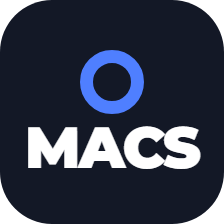
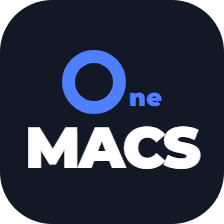
feat: 앱 v1.4 첫 실행 흐름(PC 먼저) 연계 — 메일 'PC 먼저' 안내, /console 첫 줄, 상품명·버전 기본값, 로고 O·ne MACS
Claude-Session: https://claude.ai/code/session_01HEtUMa1PLX434Fv7DYtGVQ

Changed region(s): [[0.25, 0.2188, 0.7188, 0.5312]]

diff --git a/api/lib/mailer.js b/api/lib/mailer.js
@@ -36,6 +36,7 @@ function purchaseEmailHtml(p) {
   </div>
 
   <div style="background:#1A2238;color:#fff;padding:26px;border-radius:16px;margin-bottom:22px;text-align:center;">
+    <div style="font-size:14px;opacity:.85;margin-bottom:10px;">먼저 PC에서 <a href="https://www.waat.community/console" style="color:#C9A961;font-weight:700;">waat.community/console</a> 을 여세요 — 앱은 화면이고, 일은 PC가 합니다(PC 준비 약 10분).</div>
     <div style="font-size:14px;opacity:.85;margin-bottom:12px;">보안 다운로드 링크</div>
     <a href="${esc(p.downloadLink)}" style="display:inline-block;background:#C9A961;color:#1A2238;padding:14px 34px;text-decoration:none;border-radius:10px;font-weight:800;font-size:17px;">원맥스 One MACS APK 다운로드</a>
     <div style="margin-top:14px;font-size:13px;opacity:.85;">링크 유효 ${p.expiryHours}시간 · 최대 ${p.maxDownloads}회</div>

diff --git a/api/lib/market.js b/api/lib/market.js
@@ -17,11 +17,11 @@ const crypto = require('crypto');
 
 const PRODUCT = {
     code: 'console_system',
-    name: '콘솔시스템',
+    name: '원맥스 One MACS',
     /** 시트 product 열(P)에 쓰는 값. env PRODUCT_NAME 이 있으면 그 값 그대로, 없으면 '콘솔시스템 v1.0' */
     get label() { return process.env.PRODUCT_NAME || `${this.name} ${this.version}`; },
     get price() { return parseInt(process.env.PRODUCT_PRICE, 10) || 9900; },
-    get version() { return process.env.PRODUCT_VERSION || 'v1.0'; }
+    get version() { return process.env.PRODUCT_VERSION || 'v1.3.1'; }
 };
 
 const DEFAULTS = {

diff --git a/console.html b/console.html
@@ -30,6 +30,7 @@
 <section style="padding-top:28px">
   <div class="wrap">
     <span class="eyebrow">원맥스 One MACS · PC 준비</span>
+    <p class="eyebrow" style="color:#4F7FFF;font-weight:700;margin-bottom:8px">폰 앱에서 오셨나요? 여기서 3단계만 하면 폰에 넣을 코드 8자리가 나옵니다.</p>
     <h1>PC 쪽은 Claude Code가<br>대신 설치합니다.</h1>
     <p class="lead" style="margin-top:12px">사람이 할 일은 <b>Node.js 설치 → Claude Code 설치·로그인 → 한 줄 붙여넣기</b>뿐입니다. 처음이어도 10분이면 됩니다.</p>
     <div class="bar"></div>
